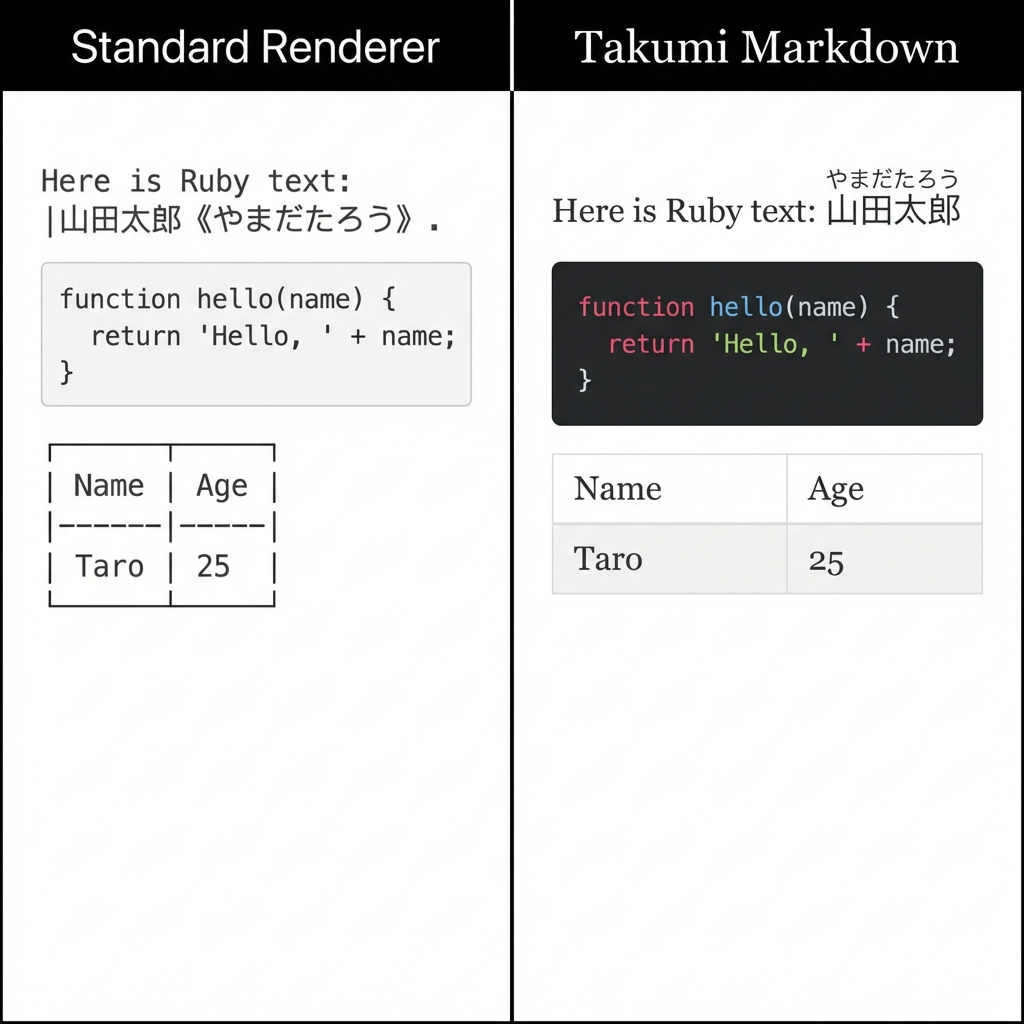
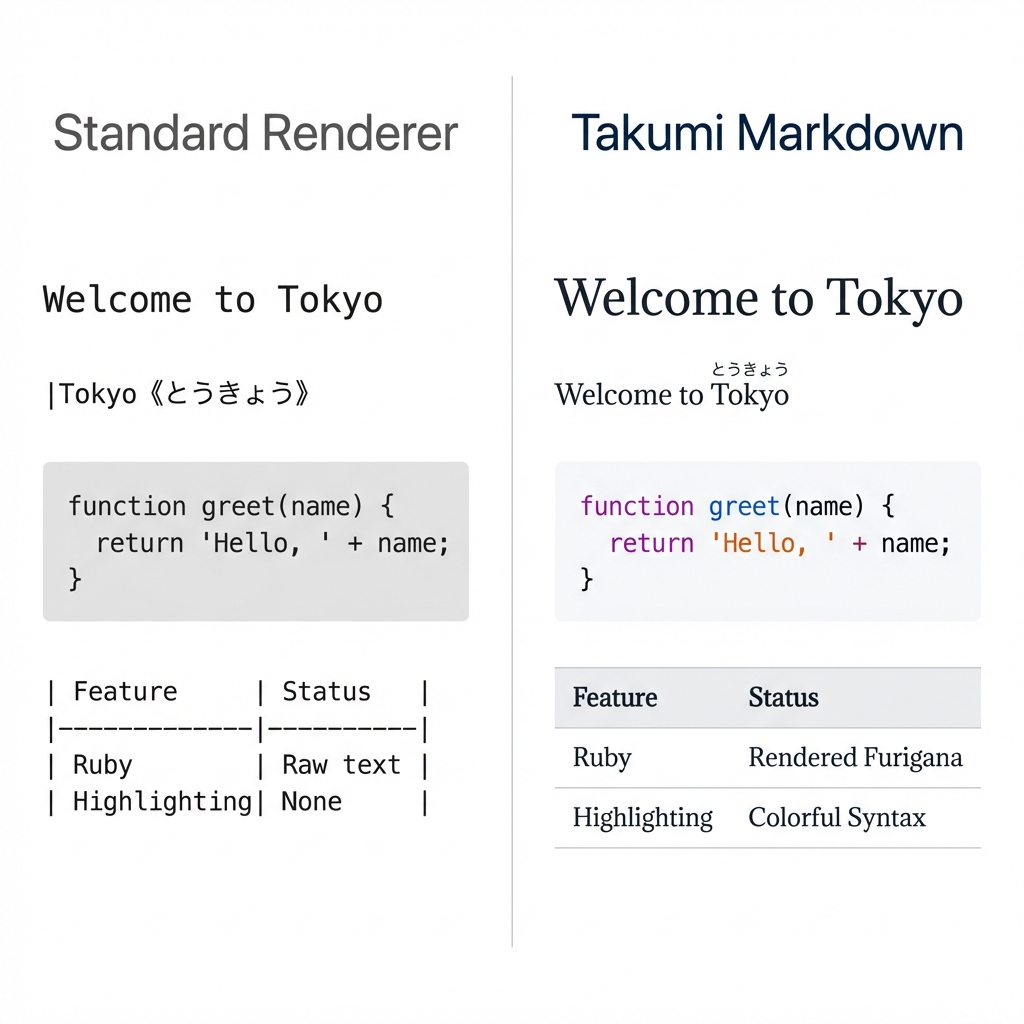
docs: Update images with English + CJK samples
- Comparison: 'Welcome to Tokyo' with ruby notation
- Preview: English content with Japanese furigana examples
- Clean white background, no blur effects

diff --git a/vite.config.lib.ts b/vite.config.lib.ts
@@ -22,7 +22,7 @@ export default defineConfig({
             }
         },
         outDir: 'dist',
-        sourcemap: true,
+        sourcemap: false,
         cssCodeSplit: false
     }
 });
